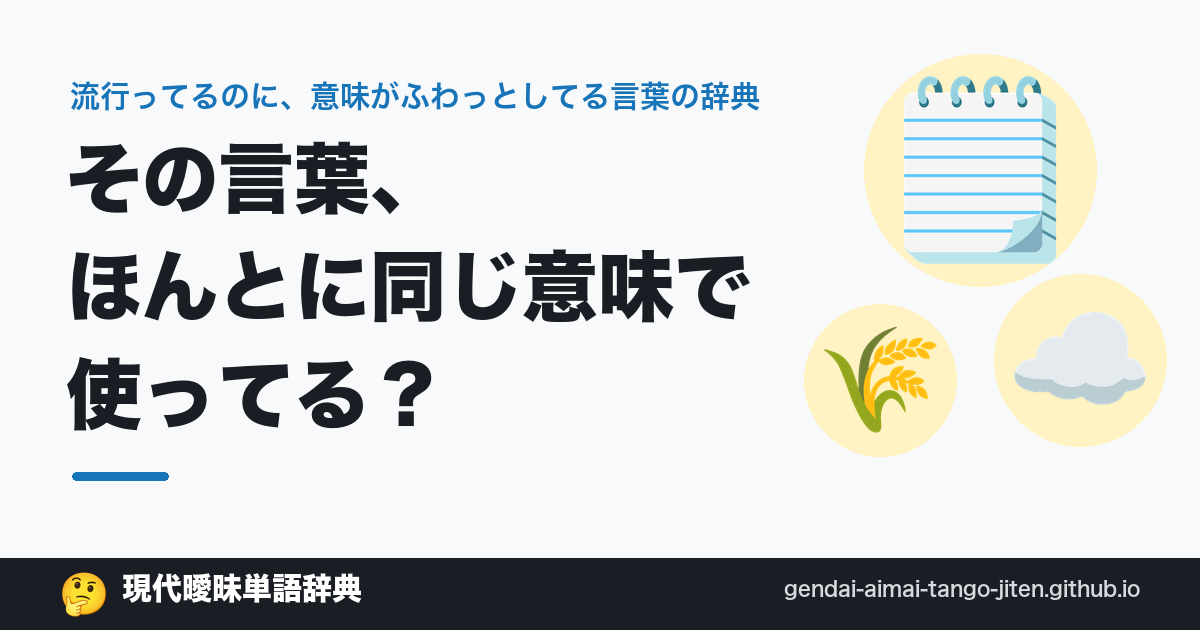
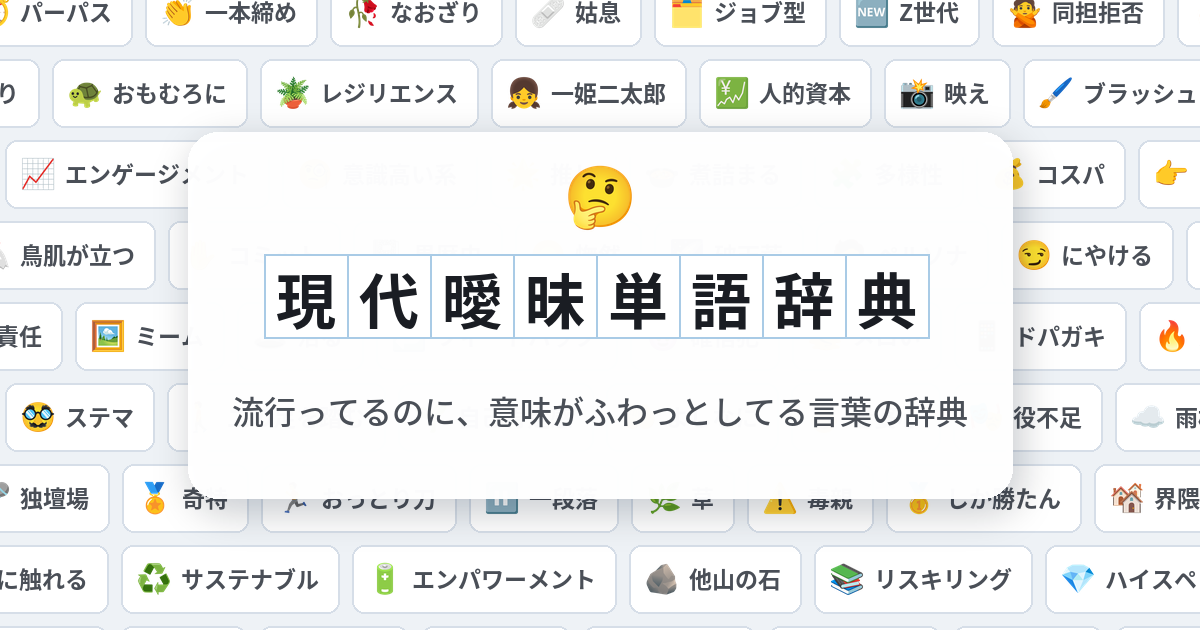
【デザイン】サイト全体の共有画像を、収録語のカードを敷き詰めて原稿用紙のマスのサイト名を置く形にする（案C）。共有画像のURLに版の印を付ける

diff --git a/docs/404.html b/docs/404.html
@@ -11,7 +11,7 @@
 <meta property="og:description" content="流行ってるのに、意味がふわっとしている言葉の辞典。蛙化現象、メロい、ドパガキなどを、語源・意味のズレ・誤用されやすい点から一語ずつ調べました。">
 <meta property="og:type" content="website">
 <meta property="og:url" content="https://gendai-aimai-tango-jiten.github.io/404.html">
-<meta property="og:image" content="https://gendai-aimai-tango-jiten.github.io/og/site.png">
+<meta property="og:image" content="https://gendai-aimai-tango-jiten.github.io/og/site.png?v=111ca728">
 <meta name="twitter:card" content="summary_large_image">
 <meta name="theme-color" content="#f7f9fb">
 <script>try{var t=localStorage.getItem("theme");if(t==="dark"||t==="light")document.documentElement.dataset.theme=t}catch(e){}</script>

diff --git a/docs/about/index.html b/docs/about/index.html
@@ -11,7 +11,7 @@
 <meta property="og:description" content="流行ってるのに、意味がふわっとしている言葉の辞典。蛙化現象、メロい、ドパガキなどを、語源・意味のズレ・誤用されやすい点から一語ずつ調べました。">
 <meta property="og:type" content="website">
 <meta property="og:url" content="https://gendai-aimai-tango-jiten.github.io/about/">
-<meta property="og:image" content="https://gendai-aimai-tango-jiten.github.io/og/site.png">
+<meta property="og:image" content="https://gendai-aimai-tango-jiten.github.io/og/site.png?v=111ca728">
 <meta name="twitter:card" content="summary_large_image">
 <meta name="theme-color" content="#f7f9fb">
 <script>try{var t=localStorage.getItem("theme");if(t==="dark"||t==="light")document.documentElement.dataset.theme=t}catch(e){}</script>

diff --git a/docs/tags/imi-ga-kawatta/index.html b/docs/tags/imi-ga-kawatta/index.html
@@ -11,7 +11,7 @@
 <meta property="og:description" content="もともとの意味から、使われるうちに意味が広がったり、ずれたりした言葉をまとめました。130語の意味・語源・使い方のズレをまとめています。">
 <meta property="og:type" content="website">
 <meta property="og:url" content="https://gendai-aimai-tango-jiten.github.io/tags/imi-ga-kawatta/">
-<meta property="og:image" content="https://gendai-aimai-tango-jiten.github.io/og/site.png">
+<meta property="og:image" content="https://gendai-aimai-tango-jiten.github.io/og/site.png?v=111ca728">
 <meta name="twitter:card" content="summary_large_image">
 <meta name="theme-color" content="#f7f9fb">
 <script>try{var t=localStorage.getItem("theme");if(t==="dark"||t==="light")document.documentElement.dataset.theme=t}catch(e){}</script>

diff --git a/docs/index.html b/docs/index.html
@@ -11,7 +11,7 @@
 <meta property="og:description" content="流行ってるのに、意味がふわっとしている言葉の辞典。蛙化現象、メロい、ドパガキなどを、語源・意味のズレ・誤用されやすい点から一語ずつ調べました。">
 <meta property="og:type" content="website">
 <meta property="og:url" content="https://gendai-aimai-tango-jiten.github.io/">
-<meta property="og:image" content="https://gendai-aimai-tango-jiten.github.io/og/site.png">
+<meta property="og:image" content="https://gendai-aimai-tango-jiten.github.io/og/site.png?v=111ca728">
 <meta name="twitter:card" content="summary_large_image">
 <meta name="theme-color" content="#f7f9fb">
 <script>try{var t=localStorage.getItem("theme");if(t==="dark"||t==="light")document.documentElement.dataset.theme=t}catch(e){}</script>

diff --git a/docs/tags/goyo/index.html b/docs/tags/goyo/index.html
@@ -11,7 +11,7 @@
 <meta property="og:description" content="文化庁の「国語に関する世論調査」などで、本来とは違う意味で使う人が多いとされる言葉です。73語の意味・語源・使い方のズレをまとめています。">
 <meta property="og:type" content="website">
 <meta property="og:url" content="https://gendai-aimai-tango-jiten.github.io/tags/goyo/">
-<meta property="og:image" content="https://gendai-aimai-tango-jiten.github.io/og/site.png">
+<meta property="og:image" content="https://gendai-aimai-tango-jiten.github.io/og/site.png?v=111ca728">
 <meta name="twitter:card" content="summary_large_image">
 <meta name="theme-color" content="#f7f9fb">
 <script>try{var t=localStorage.getItem("theme");if(t==="dark"||t==="light")document.documentElement.dataset.theme=t}catch(e){}</script>

diff --git a/docs/tags/nokagaku/index.html b/docs/tags/nokagaku/index.html
@@ -11,7 +11,7 @@
 <meta property="og:description" content="脳科学の言葉のように聞こえるけれど、日常では科学とは別の意味で使われている言葉です。1語の意味・語源・使い方のズレをまとめています。">
 <meta property="og:type" content="website">
 <meta property="og:url" content="https://gendai-aimai-tango-jiten.github.io/tags/nokagaku/">
-<meta property="og:image" content="https://gendai-aimai-tango-jiten.github.io/og/site.png">
+<meta property="og:image" content="https://gendai-aimai-tango-jiten.github.io/og/site.png?v=111ca728">
 <meta name="twitter:card" content="summary_large_image">
 <meta name="theme-color" content="#f7f9fb">
 <script>try{var t=localStorage.getItem("theme");if(t==="dark"||t==="light")document.documentElement.dataset.theme=t}catch(e){}</script>

diff --git a/docs/tags/shakai/index.html b/docs/tags/shakai/index.html
@@ -11,7 +11,7 @@
 <meta property="og:description" content="社会の変化や世代の違いを表すときに使われ、立場によって受け取り方が変わる言葉です。40語の意味・語源・使い方のズレをまとめています。">
 <meta property="og:type" content="website">
 <meta property="og:url" content="https://gendai-aimai-tango-jiten.github.io/tags/shakai/">
-<meta property="og:image" content="https://gendai-aimai-tango-jiten.github.io/og/site.png">
+<meta property="og:image" content="https://gendai-aimai-tango-jiten.github.io/og/site.png?v=111ca728">
 <meta name="twitter:card" content="summary_large_image">
 <meta name="theme-color" content="#f7f9fb">
 <script>try{var t=localStorage.getItem("theme");if(t==="dark"||t==="light")document.documentElement.dataset.theme=t}catch(e){}</script>

diff --git a/docs/tags/sns/index.html b/docs/tags/sns/index.html
@@ -11,7 +11,7 @@
 <meta property="og:description" content="X、TikTok、YouTube などのSNSや動画から広まり、意味がふわっとしたまま使われている言葉です。42語の意味・語源・使い方のズレをまとめています。">
 <meta property="og:type" content="website">
 <meta property="og:url" content="https://gendai-aimai-tango-jiten.github.io/tags/sns/">
-<meta property="og:image" content="https://gendai-aimai-tango-jiten.github.io/og/site.png">
+<meta property="og:image" content="https://gendai-aimai-tango-jiten.github.io/og/site.png?v=111ca728">
 <meta name="twitter:card" content="summary_large_image">
 <meta name="theme-color" content="#f7f9fb">
 <script>try{var t=localStorage.getItem("theme");if(t==="dark"||t==="light")document.documentElement.dataset.theme=t}catch(e){}</script>

diff --git a/docs/tags/shinrigaku/index.html b/docs/tags/shinrigaku/index.html
@@ -11,7 +11,7 @@
 <meta property="og:description" content="心理学の用語から広まり、日常では本来より広い意味で使われることが多い言葉です。19語の意味・語源・使い方のズレをまとめています。">
 <meta property="og:type" content="website">
 <meta property="og:url" content="https://gendai-aimai-tango-jiten.github.io/tags/shinrigaku/">
-<meta property="og:image" content="https://gendai-aimai-tango-jiten.github.io/og/site.png">
+<meta property="og:image" content="https://gendai-aimai-tango-jiten.github.io/og/site.png?v=111ca728">
 <meta name="twitter:card" content="summary_large_image">
 <meta name="theme-color" content="#f7f9fb">
 <script>try{var t=localStorage.getItem("theme");if(t==="dark"||t==="light")document.documentElement.dataset.theme=t}catch(e){}</script>

diff --git a/docs/tags/net-slang/index.html b/docs/tags/net-slang/index.html
@@ -11,7 +11,7 @@
 <meta property="og:description" content="ネット上の会話から生まれ、いまでは日常でも使われるようになった言葉です。33語の意味・語源・使い方のズレをまとめています。">
 <meta property="og:type" content="website">
 <meta property="og:url" content="https://gendai-aimai-tango-jiten.github.io/tags/net-slang/">
-<meta property="og:image" content="https://gendai-aimai-tango-jiten.github.io/og/site.png">
+<meta property="og:image" content="https://gendai-aimai-tango-jiten.github.io/og/site.png?v=111ca728">
 <meta name="twitter:card" content="summary_large_image">
 <meta name="theme-color" content="#f7f9fb">
 <script>try{var t=localStorage.getItem("theme");if(t==="dark"||t==="light")document.documentElement.dataset.theme=t}catch(e){}</script>

diff --git a/docs/tags/business/index.html b/docs/tags/business/index.html
@@ -11,7 +11,7 @@
 <meta property="og:description" content="職場や会議でよく聞くのに、人によって指す中身が違うビジネスの言葉です。60語の意味・語源・使い方のズレをまとめています。">
 <meta property="og:type" content="website">
 <meta property="og:url" content="https://gendai-aimai-tango-jiten.github.io/tags/business/">
-<meta property="og:image" content="https://gendai-aimai-tango-jiten.github.io/og/site.png">
+<meta property="og:image" content="https://gendai-aimai-tango-jiten.github.io/og/site.png?v=111ca728">
 <meta name="twitter:card" content="summary_large_image">
 <meta name="theme-color" content="#f7f9fb">
 <script>try{var t=localStorage.getItem("theme");if(t==="dark"||t==="light")document.documentElement.dataset.theme=t}catch(e){}</script>

diff --git a/docs/tags/renai/index.html b/docs/tags/renai/index.html
@@ -11,7 +11,7 @@
 <meta property="og:description" content="恋愛にまつわる言葉で、人によって思い浮かべる場面が違うものです。9語の意味・語源・使い方のズレをまとめています。">
 <meta property="og:type" content="website">
 <meta property="og:url" content="https://gendai-aimai-tango-jiten.github.io/tags/renai/">
-<meta property="og:image" content="https://gendai-aimai-tango-jiten.github.io/og/site.png">
+<meta property="og:image" content="https://gendai-aimai-tango-jiten.github.io/og/site.png?v=111ca728">
 <meta name="twitter:card" content="summary_large_image">
 <meta name="theme-color" content="#f7f9fb">
 <script>try{var t=localStorage.getItem("theme");if(t==="dark"||t==="light")document.documentElement.dataset.theme=t}catch(e){}</script>
